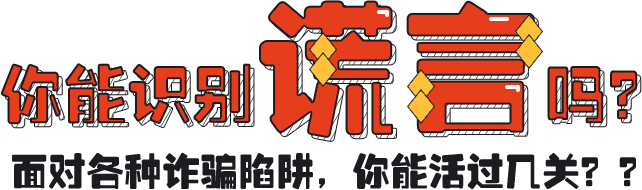
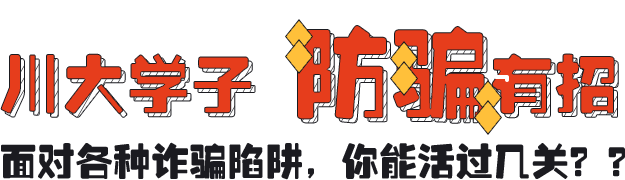
修改图片

diff --git a/app/template/index.html b/app/template/index.html
@@ -2,9 +2,9 @@
 <html>
   <head>
     <meta charset="utf-8">
-    <title>防诈骗宝典</title>
-    <meta name="keywords" content="防诈骗宝典">
-    <meta name="description" content="防诈骗宝典">
+    <title>川大学子，防骗有招</title>
+    <meta name="keywords" content="川大学子，防骗有招">
+    <meta name="description" content="川大学子，防骗有招">
     <meta name="viewport" content="width=device-width,initial-scale=1.0,minimum-scale=1.0,maximum-scale=1.0,user-scalable=no">
     <meta name="apple-mobile-web-app-capable" content="yes">
     <meta name="apple-mobile-web-app-status-bar-style" content="black">

diff --git a/app/template/score.html b/app/template/score.html
@@ -2,9 +2,9 @@
 <html>
   <head>
     <meta charset="utf-8">
-    <title>防诈骗宝典</title>
-    <meta name="keywords" content="防诈骗宝典">
-    <meta name="description" content="防诈骗宝典">
+    <title>川大学子，防骗有招</title>
+    <meta name="keywords" content="川大学子，防骗有招">
+    <meta name="description" content="川大学子，防骗有招">
     <meta name="viewport" content="width=device-width,initial-scale=1.0,minimum-scale=1.0,maximum-scale=1.0,user-scalable=no">
     <meta name="apple-mobile-web-app-capable" content="yes">
     <meta name="apple-mobile-web-app-status-bar-style" content="black">

diff --git a/client/src/less/page/index.less b/client/src/less/page/index.less
@@ -112,8 +112,8 @@ body {
     .px2rem(padding-top, 25);
     i.slogan {
       display: block;
-      .px2rem(width, 642);
-      .px2rem(height, 190);
+      .px2rem(width, 625);
+      .px2rem(height, 180);
       background: url(/img/header-slogan@2x.png) no-repeat center center;
       background-size: contain;
       margin: 0 auto;
